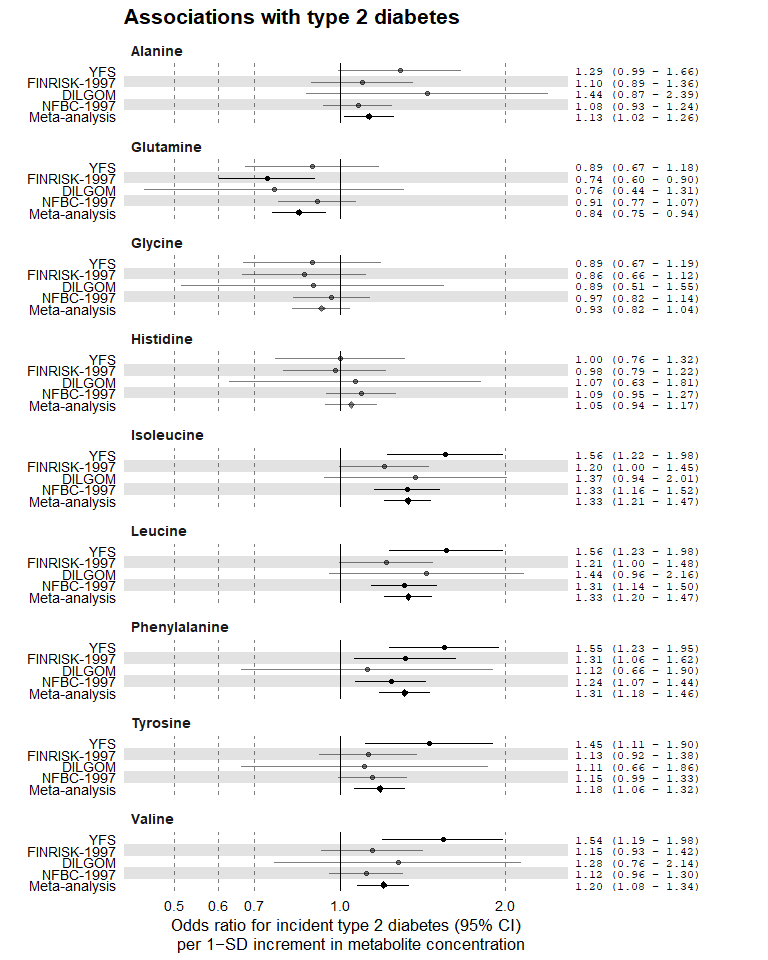
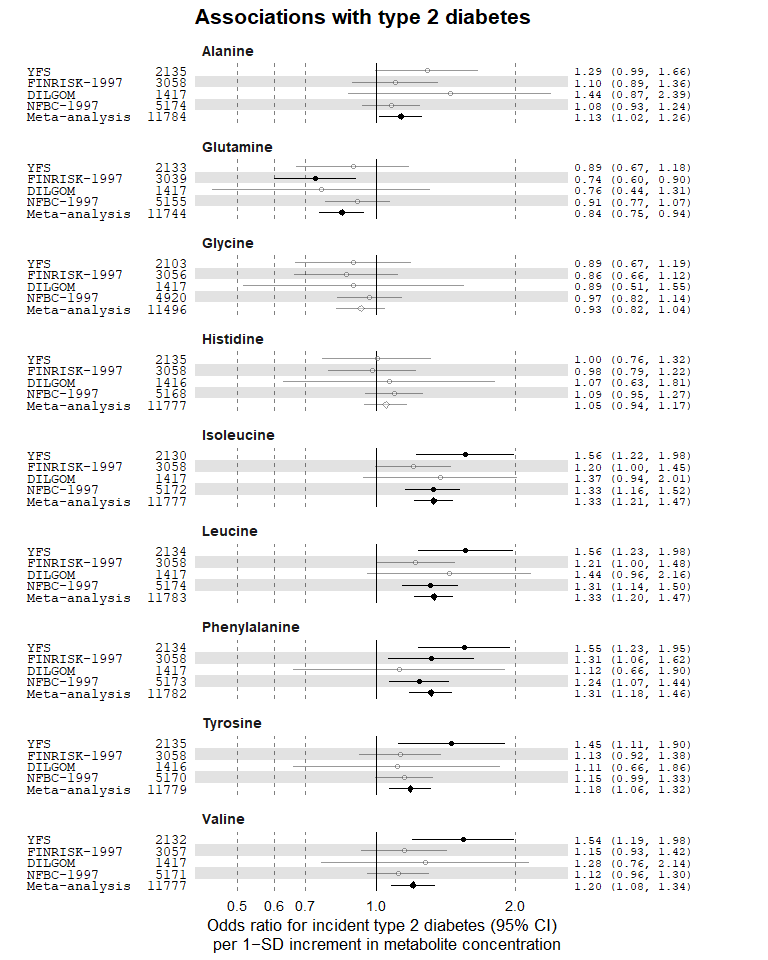
Update examples

diff --git a/README.md b/README.md
@@ -1,8 +1,6 @@
 
 <!-- README.md is generated from README.Rmd. Please edit that file -->
 
-    ## Warning: package 'magrittr' was built under R version 4.4.3
-
 <br>
 
 <div style="text-align:left">
@@ -89,16 +87,8 @@ to insulin resistance (HOMA-IR), fasting glucose and Body Mass Index
 # Load tidyverse and ggforestplot
 # install.packages("tidyverse")
 library(tidyverse)
-#> Warning: package 'tidyverse' was built under R version 4.4.3
-#> Warning: package 'ggplot2' was built under R version 4.4.3
-#> Warning: package 'tibble' was built under R version 4.4.3
-#> Warning: package 'tidyr' was built under R version 4.4.3
-#> Warning: package 'readr' was built under R version 4.4.2
-#> Warning: package 'purrr' was built under R version 4.4.3
-#> Warning: package 'dplyr' was built under R version 4.4.3
-#> Warning: package 'stringr' was built under R version 4.4.3
-#> Warning: package 'forcats' was built under R version 4.4.2
-#> Warning: package 'lubridate' was built under R version 4.4.1
+#> Warning: package 'readr' was built under R version 4.3.3
+#> Warning: package 'lubridate' was built under R version 4.3.3
 library(ggforestplot)
 
 # Get subset of example, linear associations, data frame
@@ -249,7 +239,6 @@ Requires {ggforce} package
 
 ``` r
 library(ggforce)
-#> Warning: package 'ggforce' was built under R version 4.4.3
 
 # add grouping variable
 df_linear_groups <-   ggforestplot::df_linear_associations |>
@@ -306,14 +295,14 @@ forestplot(
 
 forestplot(
   df = df_logodds |> dplyr::arrange(forcats::fct_rev(study)),
-  name = study,
+  name = c(study, n),
   estimate = beta,
   logodds = TRUE,
   shape = study,
   pvalue = pvalue,
   psignif = 0.05,
-  alpha = 0.50,
-  filled_nonsig = TRUE,
+  alpha = 0.40,
+  filled_nonsig = FALSE,
   est_table = TRUE,
   title = "Associations with type 2 diabetes",
   xlab = "Odds ratio for incident type 2 diabetes (95% CI)
